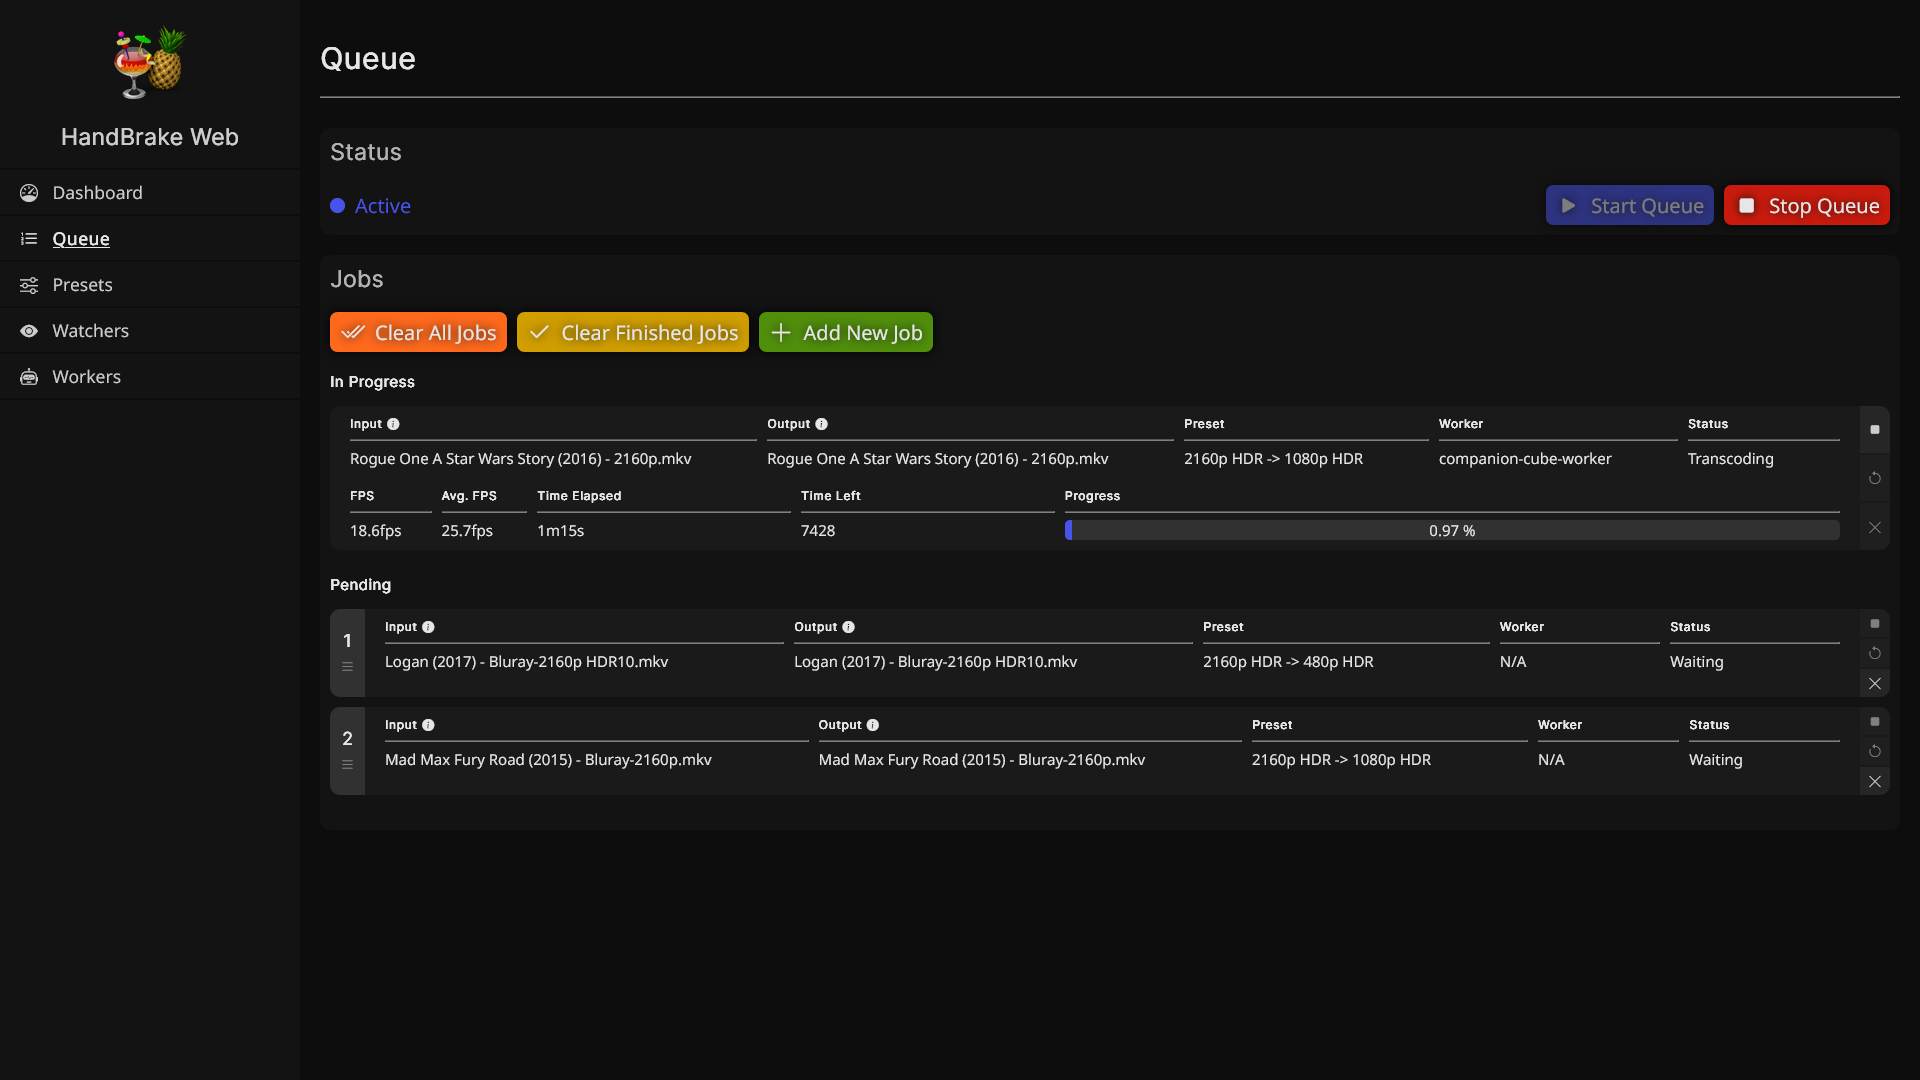
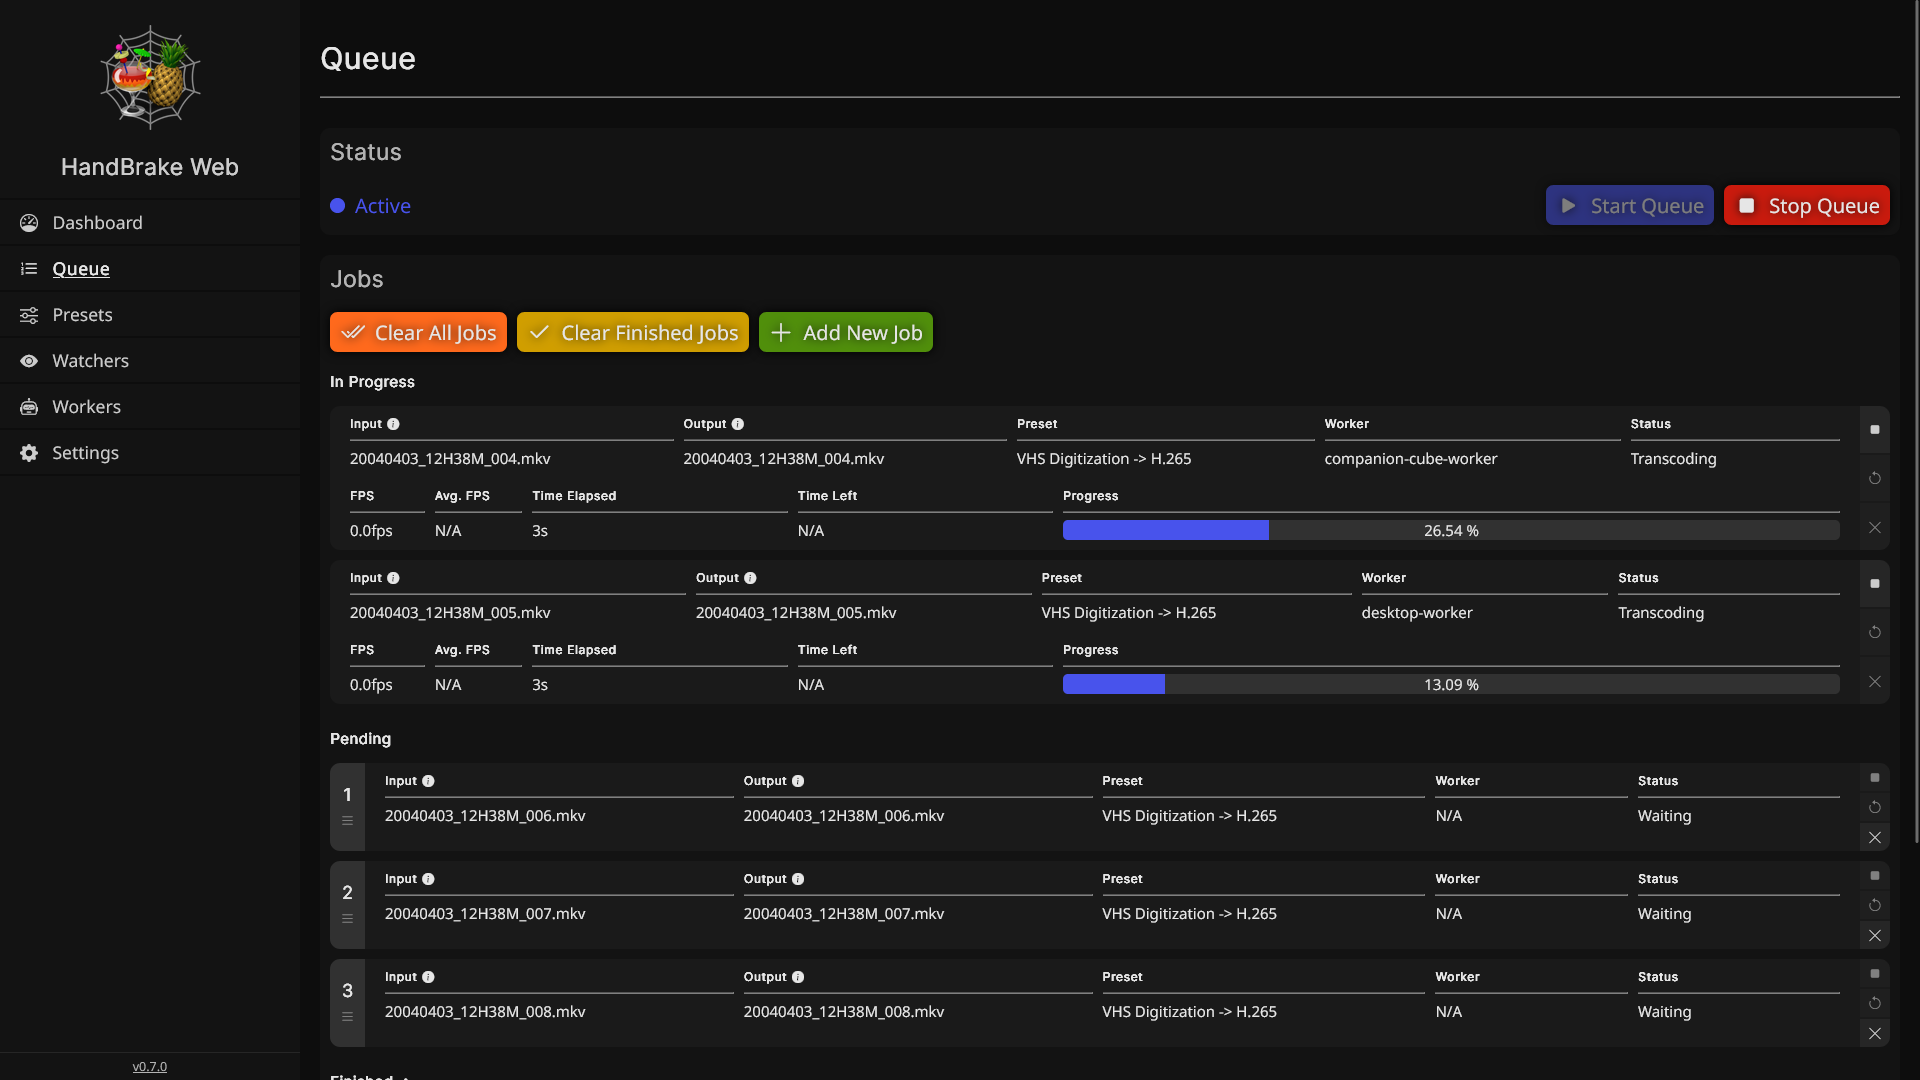
readme: update the header section of the readme and the display of screenshots (#222)
* feat: updating screenshots

* readme: updating header section and display of screenshots

diff --git a/README.md b/README.md
@@ -1,20 +1,27 @@
 <div align='center'>
-	<strong>Disclaimer:</strong>
-	<em>This project is not related to or part of the official <a href='https://github.com/HandBrake/HandBrake'>HandBrake</a> development. It simply uses the CLI component of HandBrake under the hood.</em>
+    <h1 style='{text-decoration: none}'>HandBrake Web</h1>
+    <div align='center'>
+      <strong>Disclaimer:</strong>
+      <em>This project is not related to or part of the official <a href='https://github.com/HandBrake/HandBrake'>HandBrake</a> development. It simply uses the CLI component of HandBrake under the hood.</em>
+    </div>
+    <img src='client/public/handbrake-icon.png' height=256px>
 </div>
 
-# HandBrake Web
-
-<div align='center'>
-    <img src='images/screenshots/screenshot-dashboard.png' width=70%>
-</div>
-<div align='center' width=100%>
-	<img src='images/screenshots/screenshot-queue.png' width=24.5%>
-	<img src='images/screenshots/screenshot-presets.png' width=24.5%>
-	<img src='images/screenshots/screenshot-watchers.png' width=24.5%>
-	<img src='images/screenshots/screenshot-workers.png' width=24.5%>
-</div>
 <br>
+
+<div align='center' width=100%>
+  <details>
+    <summary>Screenshots (click to expand)</summary>
+    <img src='images/screenshots/screenshot-dashboard.png' width=90%>
+    <img src='images/screenshots/screenshot-queue.png' width=90%>
+    <img src='images/screenshots/screenshot-presets.png' width=90%>
+    <img src='images/screenshots/screenshot-watchers.png' width=90%>
+    <img src='images/screenshots/screenshot-workers.png' width=90%>
+    <img src='images/screenshots/screenshot-settings.png' width=90%>
+  </details>
+</div>
+
+## Summary
 
 HandBrake Web is a program for interfacing with handbrake across multiple machines via a web browser. It consists of two components: the **server** and one or more **worker**(s). **_Warning_** - This application is still under heavy development, use at your own risk, to learn more please see the [Known Issues & Limitations](#planned-features-not-yet-implemented) section.
 
